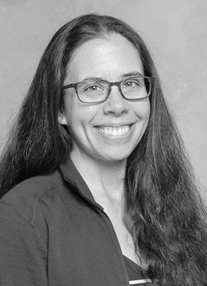
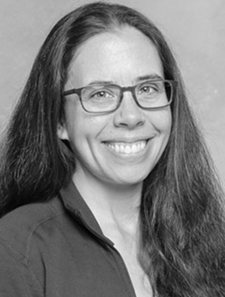
Updated Tucker's description, added his photo, and cropped mine.

diff --git a/_pages/team.md b/_pages/team.md
@@ -60,8 +60,12 @@ produced from recycled rubber tire waste.
 
 ## <a name="tburgin"></a> Tucker Burgin
 
-Tucker earned his BS and MS in [Chemical Engineering from Rochester University](http://www.che.rochester.edu), where he worked 
-with the [McGrath Lab](https://www.urmc.rochester.edu/labs/McGrath-Lab/) on on creating efficient membranes for miniaturized, continuous hemodialysis.
+<img align="left" src="../assets/img/tburgin.png" style="margin:10px 10px 0px 0px">
+Tucker earned his BS and MS in Biomedical Engineering (with a concentration in Chemical Engineering) through a combined degree 
+program at the [University of Rochester](https://enrollment.rochester.edu/professional/gear/). He conducted research with the 
+[Nanomembranes Research Group](http://nanomembranes.org/) and the [McGrath Lab](https://www.urmc.rochester.edu/labs/McGrath-Lab/), 
+and his MS thesis work centered on building models to support the application of ultra-thin silicon membranes to highly efficient, 
+wearable hemodialysis devices.
 
 ## <a name="epurcell"></a> Emma Purcell
 

diff --git a/README.md b/README.md
@@ -11,6 +11,13 @@ $ cd team-site
 $ jekyll serve
 ```
 
+To publish:
+
+```
+$ jekyll build
+```
+The created site will be in _site. It can be moved to the server via scp or FileZilla.
+
 # Thanks
 This site is based on the [Jackal](https://github.com/clenemt/jackal)
 Jekyll theme.  Thanks to [Clement Moron](http://clenemt.com/) for 
